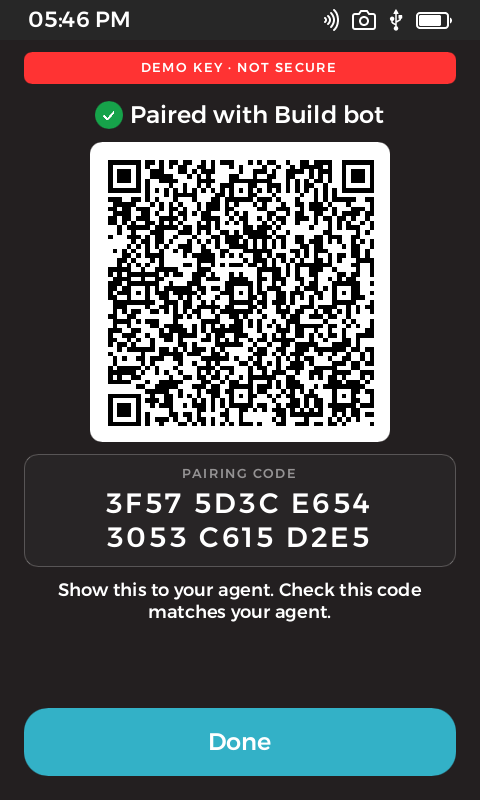
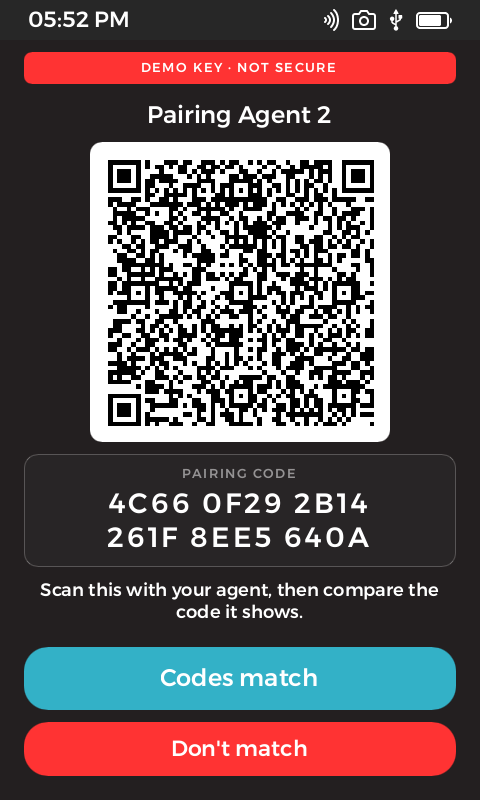
Item 10.1: save a pairing only after the person confirms the codes match
Pair now creates a pending pairing in memory; the answer screen has Codes match (saves) and
Don't match (discards). Leaving the screen or relaunching discards it. Pure helper
resolve_pairing with host tests. README: the agent pins the Prime's key only after its own
user confirms the codes match.

diff --git a/src/main.rs b/src/main.rs
@@ -44,15 +44,6 @@ struct Decision {
     at: u64,
 }
 
-/// A paired agent. `name` is what the person typed on the Prime; the agent never names itself.
-#[derive(Serialize, Deserialize, Clone)]
-struct Paired {
-    name: String,
-    /// Agent Ed25519 public key, hex.
-    pk: String,
-    paired_at: u64,
-}
-
 #[derive(Serialize, Deserialize, Default)]
 struct State {
     launches: u64,
@@ -82,6 +73,9 @@ struct App {
     current_key: Option<VerifyingKey>,
     /// Agent key waiting on the pair-confirm screen.
     pending_pair: Option<VerifyingKey>,
+    /// Pairing shown on the answer screen, waiting for "Codes match". Memory only: never saved until
+    /// confirmed, and dropped if the screen is left any other way or the app relaunches.
+    pair_answer: Option<PendingPair>,
     /// Agent the unpair prompt is about, and the page to return to afterwards.
     unpair_target: Option<VerifyingKey>,
     unpair_return: i32,
@@ -185,7 +179,7 @@ fn app_main(cx: AppContext, ui: AppWindow) {
         #[cfg(feature = "demo")]
         demo_agent,
         state, current: None, current_agent: String::new(), current_key: None, last_good_qr: None, pending_reply: None,
-        pending_pair: None, unpair_target: None, unpair_return: 0,
+        pending_pair: None, pair_answer: None, unpair_target: None, unpair_return: 0,
     }));
     rebuild_agents(&mut app.borrow_mut());
 
@@ -194,6 +188,8 @@ fn app_main(cx: AppContext, ui: AppWindow) {
         let app = app.clone();
         move || {
             let ui = ui.unwrap();
+            // Home is reached from every exit; an unconfirmed pairing never survives it.
+            app.borrow_mut().pair_answer = None;
             let a = app.borrow();
             ui.set_has_agent(!a.agents.is_empty());
             let rows: Vec<AgentRow> = a.agents.iter().map(|ag| AgentRow { name: ag.name.clone().into(), fp: fingerprint(&ag.key).into() }).collect();
@@ -485,8 +481,10 @@ fn app_main(cx: AppContext, ui: AppWindow) {
         ui.set_agent_name(name.into());
         ui.set_page(5);
     }); }
-    // Pair: validate the person's name, save, then show the signed answer for the agent to scan.
-    { let app = app.clone(); let ui = ui.as_weak(); let cx = cx.clone(); cb.on_pair_confirm(move |typed| {
+    // Pair: validate the person's name, then show the signed answer for the agent to scan. Nothing is
+    // saved yet: the agent only learns the Prime's key (and can show the pairing code) from this answer,
+    // so the pairing is saved only when the person taps "Codes match" after comparing.
+    { let app = app.clone(); let ui = ui.as_weak(); cb.on_pair_confirm(move |typed| {
         let ui = ui.unwrap();
         let mut a = app.borrow_mut();
         let typed = typed.trim().to_string();
@@ -497,27 +495,40 @@ fn app_main(cx: AppContext, ui: AppWindow) {
         }
         let (Some(pk), Some(app_key)) = (a.pending_pair.take(), a.app_key.clone()) else { return };
         let hexpk = hex::encode(pk.as_bytes());
-        let now = now_secs().unwrap_or(0);
-        if let Some(p) = a.state.agents.iter_mut().find(|p| p.pk == hexpk) {
-            p.name = name.clone();
-        } else {
-            if a.state.agents.len() >= MAX_AGENTS {
-                show_error(&ui, "Too many agents", &format!("This Prime already has {MAX_AGENTS} paired agents."), "Unpair one from the home screen, then scan again.");
-                return;
-            }
-            a.state.agents.push(Paired { name: name.clone(), pk: hexpk, paired_at: now });
+        if !a.state.agents.iter().any(|p| p.pk == hexpk) && a.state.agents.len() >= MAX_AGENTS {
+            show_error(&ui, "Too many agents", &format!("This Prime already has {MAX_AGENTS} paired agents."), "Unpair one from the home screen, then scan again.");
+            return;
         }
-        save(&cx, &a.state);
-        rebuild_agents(&mut a);
         let reply = encode_paired_reply(&pk, &app_key);
         let ok = verify_paired_reply(&reply, &pk) == Some(app_key.verifying_key());
-        log::info!("paired agent {} ({} saved), reply {} bytes, agent-side verify={ok}", fingerprint(&pk), a.state.agents.len(), reply.len());
+        log::info!("pairing pending (not saved) for {}, reply {} bytes, agent-side verify={ok}", fingerprint(&pk), reply.len());
         let (img, info) = qr_image(&reply);
         ui.set_reply_qr(img);
         ui.set_qr_line(info.into());
-        ui.set_agent_name(name.into());
+        ui.set_agent_name(name.clone().into());
+        a.pair_answer = Some(PendingPair { pk, name });
         ui.set_page(7);
     }); }
+    // Answer screen: "Codes match" saves the pending pairing; "Don't match" throws it away.
+    for answer in [PairAnswer::CodesMatch, PairAnswer::DontMatch] {
+        let app = app.clone(); let ui = ui.as_weak(); let cx = cx.clone(); let r = refresh_home.clone();
+        let f = move || {
+            let full = {
+                let mut a = app.borrow_mut();
+                let pending = a.pair_answer.take();
+                let out = resolve_pairing(&mut a.state.agents, pending, answer, now_secs().unwrap_or(0));
+                if matches!(out, PairOutcome::Saved | PairOutcome::Renamed) {
+                    save(&cx, &a.state);
+                    rebuild_agents(&mut a);
+                }
+                log::info!("pairing answer {answer:?}: {out:?}, {} saved", a.state.agents.len());
+                out == PairOutcome::Full
+            };
+            r();
+            if full { show_error(&ui.unwrap(), "Too many agents", &format!("This Prime already has {MAX_AGENTS} paired agents."), "Unpair one from the home screen, then scan again."); }
+        };
+        if answer == PairAnswer::CodesMatch { cb.on_pair_match(f); } else { cb.on_pair_mismatch(f); }
+    }
     { let app = app.clone(); let r = refresh_home.clone(); cb.on_pair_cancel(move || { app.borrow_mut().pending_pair = None; r(); }); }
     { let r = refresh_home.clone(); cb.on_done(move || r()); }
 

diff --git a/src/proto.rs b/src/proto.rs
@@ -361,6 +361,56 @@ pub fn verify_paired_reply(qr: &str, agent_pk: &VerifyingKey) -> Option<Verifyin
     (r.kid == kid(agent_pk)).then_some(app_pk)
 }
 
+// ---------------------------------------------------------------- pairing: pending, then confirm
+
+/// A paired agent as saved on the Prime. `name` is what the person typed; the agent never names itself.
+#[derive(Serialize, Deserialize, Clone, Debug, PartialEq)]
+pub struct Paired {
+    pub name: String,
+    /// Agent Ed25519 public key, hex.
+    pub pk: String,
+    pub paired_at: u64,
+}
+
+/// A pairing the person started (tapped Pair) but hasn't confirmed yet. Memory only, never saved:
+/// leaving the answer screen any other way, or relaunching, throws it away.
+#[derive(Clone, Debug)]
+pub struct PendingPair {
+    pub pk: VerifyingKey,
+    pub name: String,
+}
+
+/// The person's answer on the answer screen, after comparing the code on the agent's screen.
+#[derive(Clone, Copy, Debug, PartialEq)]
+pub enum PairAnswer { CodesMatch, DontMatch }
+
+#[derive(Clone, Copy, Debug, PartialEq)]
+pub enum PairOutcome {
+    /// New agent saved.
+    Saved,
+    /// Already paired: the saved name was updated.
+    Renamed,
+    /// Nothing saved (Don't match, or no pending pairing).
+    Discarded,
+    /// Nothing saved: already MAX_AGENTS paired.
+    Full,
+}
+
+/// Resolves a pending pairing. Only `CodesMatch` with a pending pairing changes `saved`; the caller
+/// persists `saved` when the outcome is `Saved` or `Renamed`.
+pub fn resolve_pairing(saved: &mut Vec<Paired>, pending: Option<PendingPair>, answer: PairAnswer, now: u64) -> PairOutcome {
+    let Some(p) = pending else { return PairOutcome::Discarded };
+    if answer != PairAnswer::CodesMatch || !valid_agent_name(&p.name) { return PairOutcome::Discarded; }
+    let hexpk = hex::encode(p.pk.as_bytes());
+    if let Some(x) = saved.iter_mut().find(|x| x.pk == hexpk) {
+        x.name = p.name;
+        return PairOutcome::Renamed;
+    }
+    if saved.len() >= MAX_AGENTS { return PairOutcome::Full; }
+    saved.push(Paired { name: p.name, pk: hexpk, paired_at: now });
+    PairOutcome::Saved
+}
+
 #[cfg(test)]
 mod tests {
     use super::*;
@@ -606,5 +656,47 @@ mod tests {
         assert_ne!(pairing_code(&a, &agent_sk(8).verifying_key()), code, "app key swapped");
         assert_ne!(pairing_code(&p, &a), code, "order matters");
         println!("pairing code {code}");
+    }
+
+    // ---- Pairing is saved only after the person confirms the codes match (item 10.1) ----
+
+    fn pending(n: u8, name: &str) -> Option<PendingPair> {
+        Some(PendingPair { pk: agent_sk(n).verifying_key(), name: name.into() })
+    }
+
+    #[test]
+    fn pending_pairing_needs_confirmation() {
+        let mut saved: Vec<Paired> = Vec::new();
+        // Pair tapped, then the screen is left or the app relaunches: the pending pairing is dropped.
+        let p = pending(1, "Build bot");
+        drop(p);
+        assert!(saved.is_empty(), "no confirm, nothing saved");
+        assert_eq!(resolve_pairing(&mut saved, None, PairAnswer::CodesMatch, NOW), PairOutcome::Discarded);
+        assert!(saved.is_empty(), "confirm with nothing pending saves nothing");
+        // Don't match: nothing saved.
+        assert_eq!(resolve_pairing(&mut saved, pending(1, "Build bot"), PairAnswer::DontMatch, NOW), PairOutcome::Discarded);
+        assert!(saved.is_empty(), "don't match, nothing saved");
+        // Codes match: saved, with the name the person typed.
+        assert_eq!(resolve_pairing(&mut saved, pending(1, "Build bot"), PairAnswer::CodesMatch, NOW), PairOutcome::Saved);
+        assert_eq!(saved, vec![Paired { name: "Build bot".into(), pk: hex::encode(agent_sk(1).verifying_key().as_bytes()), paired_at: NOW }]);
+        // Don't match on a re-pair leaves the saved pairing as it was.
+        assert_eq!(resolve_pairing(&mut saved, pending(1, "Renamed"), PairAnswer::DontMatch, NOW), PairOutcome::Discarded);
+        assert_eq!(saved[0].name, "Build bot");
+        assert_eq!(resolve_pairing(&mut saved, pending(1, "Renamed"), PairAnswer::CodesMatch, NOW + 1), PairOutcome::Renamed);
+        assert_eq!((saved.len(), saved[0].name.as_str(), saved[0].paired_at), (1, "Renamed", NOW));
+    }
+
+    #[test]
+    fn pending_pairing_respects_limits() {
+        let mut saved: Vec<Paired> = Vec::new();
+        for n in 0..MAX_AGENTS as u8 {
+            assert_eq!(resolve_pairing(&mut saved, pending(n + 10, "A"), PairAnswer::CodesMatch, NOW), PairOutcome::Saved);
+        }
+        assert_eq!(resolve_pairing(&mut saved, pending(99, "Extra"), PairAnswer::CodesMatch, NOW), PairOutcome::Full);
+        assert_eq!(saved.len(), MAX_AGENTS);
+        // A bad name never gets saved, even with a confirm.
+        let mut empty: Vec<Paired> = Vec::new();
+        assert_eq!(resolve_pairing(&mut empty, pending(1, " bad"), PairAnswer::CodesMatch, NOW), PairOutcome::Discarded);
+        assert!(empty.is_empty());
     }
 }

diff --git a/README.md b/README.md
@@ -8,13 +8,13 @@ Status: v0.2 in progress, simulator-tested only. Not yet run on hardware (see *K
 
 ## Screenshots (KeyOS simulator, color-corrected)
 
-**Pairing (v0.3, October 17, 2026):** a default build with no agent, the pair-confirm screen (pairing code and agent key), naming the agent on the Prime with the on-screen keyboard, the signed answer QR for the agent, a relaunch showing the saved pairing, the unpair prompt, and a relaunch after unpairing (Agent 1 stays gone, Build bot stays paired). The demo agent "Cos" is a demo-build-only, in-memory agent.
+**Pairing (v0.3, October 17, 2026):** a default build with no agent, the pair-confirm screen (pairing code and agent key), naming the agent on the Prime with the on-screen keyboard, the signed answer QR for the agent with **Codes match** and **Don't match** (updated in v0.3.1; the pairing is saved only on Codes match), a relaunch showing the saved pairing, the unpair prompt, and a relaunch after unpairing (Agent 1 stays gone, Build bot stays paired). The demo agent "Cos" is a demo-build-only, in-memory agent.
 
 <p>
 <img src="docs/screenshots/v0.3/home-no-agent.png" width="140" alt="Default build: no agent paired">
 <img src="docs/screenshots/v0.3/pair-confirm.png" width="140" alt="Pair this agent? with a 12-byte pairing code">
 <img src="docs/screenshots/v0.3/pair-name.png" width="140" alt="Naming the agent with the on-screen keyboard">
-<img src="docs/screenshots/v0.3/paired-reply.png" width="140" alt="Paired with Build bot: answer QR and pairing code">
+<img src="docs/screenshots/v0.3/paired-reply.png" width="140" alt="Pairing answer: QR and pairing code, then Codes match or Don't match">
 <img src="docs/screenshots/v0.3/relaunch-saved.png" width="140" alt="After relaunch: Agent 1 still paired">
 <img src="docs/screenshots/v0.3/unpair.png" width="140" alt="Unpair this agent?">
 <img src="docs/screenshots/v0.3/relaunch-after-unpair.png" width="140" alt="After relaunch: Agent 1 stays unpaired">
@@ -89,12 +89,15 @@ Pairing is two-way: the Prime learns the agent's key, and the agent learns (and 
 
 1. **The agent shows a pairing offer QR:** `primeapprove:pair:v1:<b64url(json)>.<b64url(sig)>`. JSON is `{pk, exp}`: the agent's Ed25519 public key (64 hex chars) and an expiry no more than 10 minutes out. The signature is by that same key over `"primeapprove-pair-v1\n" + json`, which proves the agent holds the key. The offer has **no name**: the agent never names itself.
 2. **The Prime shows "Pair this agent?"** with the pairing code and the key fingerprint, inside a trusted frame. The person types a name for the agent on the Prime (printable ASCII, 1 to 24 characters; left blank, it becomes "Agent N"). That name is what the review band shows from then on.
-3. **On Pair, the Prime saves the agent and shows its answer QR:** `primeapprove:paired:v1:<b64url(json)>.<b64url(sig)>`. JSON is `{kid, app_pk}`: the paired agent's key id and the Prime's app public key. It is signed by the app key over `"primeapprove-paired-v1\n" + json`.
-4. **The agent checks the answer** (`verify_paired_reply`), which returns the Prime's app key, and **pins it**. From then on the agent must verify every reply against that pinned key and reject a reply signed by any other key, even a validly signed one (threat model rule 1).
+3. **On Pair, the Prime shows its answer QR, but saves nothing yet:** `primeapprove:paired:v1:<b64url(json)>.<b64url(sig)>`. JSON is `{kid, app_pk}`: the paired agent's key id and the Prime's app public key. It is signed by the app key over `"primeapprove-paired-v1\n" + json`. The pairing is held in memory only, as *pending*.
+4. **The agent checks the answer** (`verify_paired_reply`), which gives it the Prime's app key, and shows the pairing code it computes from the two keys. The agent's own user compares that code with the Prime's.
+5. **Both sides commit only when the codes match.** On the Prime, the person taps **Codes match**, which saves the pairing, or **Don't match**, which throws it away and saves nothing. Leaving the answer screen any other way, or relaunching the app, also throws it away. On the agent, the agent **pins the Prime's key only after its own user confirms that the codes match**. From then on the agent must verify every reply against that pinned key and reject a reply signed by any other key, even a validly signed one (threat model rule 1).
+
+Why the order matters: the agent only learns the Prime's key from the answer QR, so before that screen it has no code to compare. Saving on the earlier Pair tap would commit a pairing the person never got to check. The pending-then-confirm rule is a pure helper, `resolve_pairing`, with host tests: nothing is saved without a confirm, nothing is saved on Don't match, and the pairing is saved on Codes match.
 
 **Pairing code.** Both screens show the first 12 bytes of `SHA-256("prime-approve pair v1" || agent_pk || app_pk)` as six groups of four uppercase hex characters, for example `3F57 5D3C E654 3053 C615 D2E5`. The agent computes it from its own key and the pinned app key. If anyone swapped either key on the way, the codes differ. The person should pair only when the codes match. The signatures prove each side holds its key; the code comparison is what proves it is the *right* key.
 
-**Saved, and removable.** Pairings are saved in the app's storage and survive a restart. Up to 5 agents can be paired; re-pairing a key that's already paired just renames it. Tap an agent on the home screen to unpair it (or choose "Don't recognize this" when denying one of its requests). Unpairing is saved, so the agent stays unpaired after a restart, and the agent's requests are refused as "Bad signature" from then on.
+**Saved, and removable.** Confirmed pairings are saved in the app's storage and survive a restart. Up to 5 agents can be paired; re-pairing a key that's already paired just renames it. Tap an agent on the home screen to unpair it (or choose "Don't recognize this" when denying one of its requests). Unpairing is saved, so the agent stays unpaired after a restart, and the agent's requests are refused as "Bad signature" from then on.
 
 **Scanning.** **Scan code** takes either a request or a pairing offer, and the Launcher hands both to the app (`primeapprove:v1:` and `primeapprove:pair:v1:` match rules). Demo builds add a **Demo pair** button that generates a pairing offer from a fresh random key and feeds it through the same handler, because the simulator has no camera. A fresh random key means a demo pairing never leaves a publicly known key paired.
 
